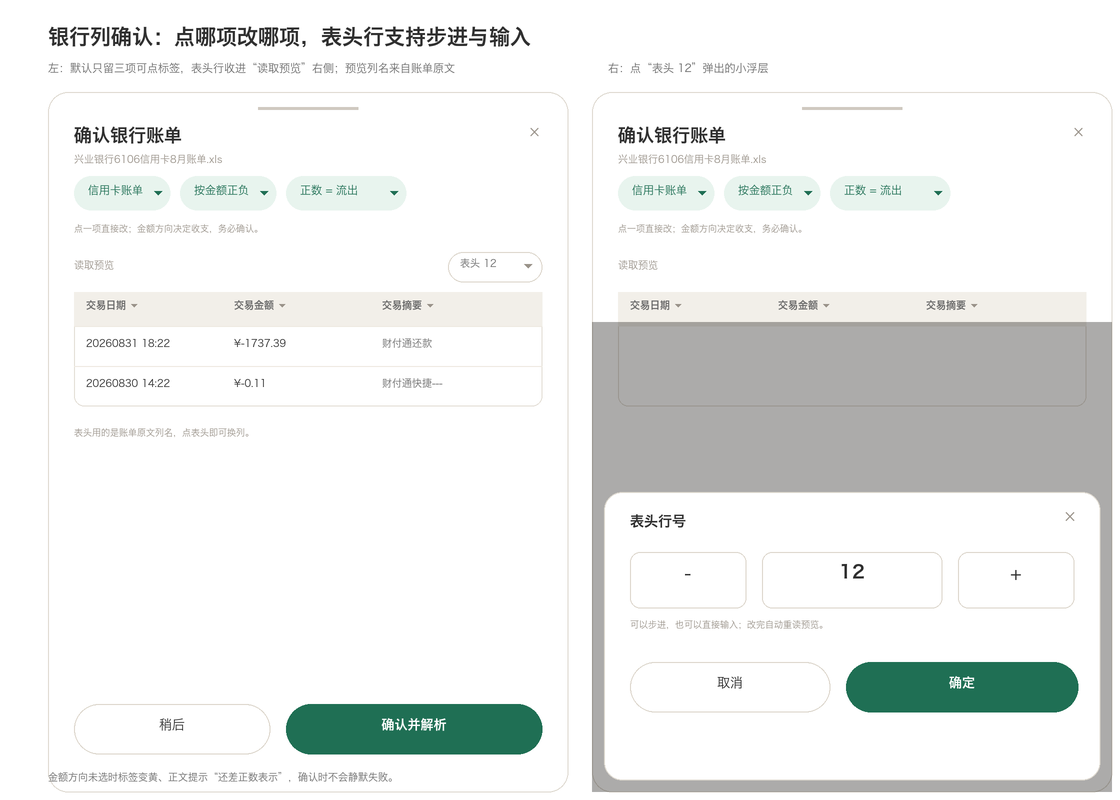
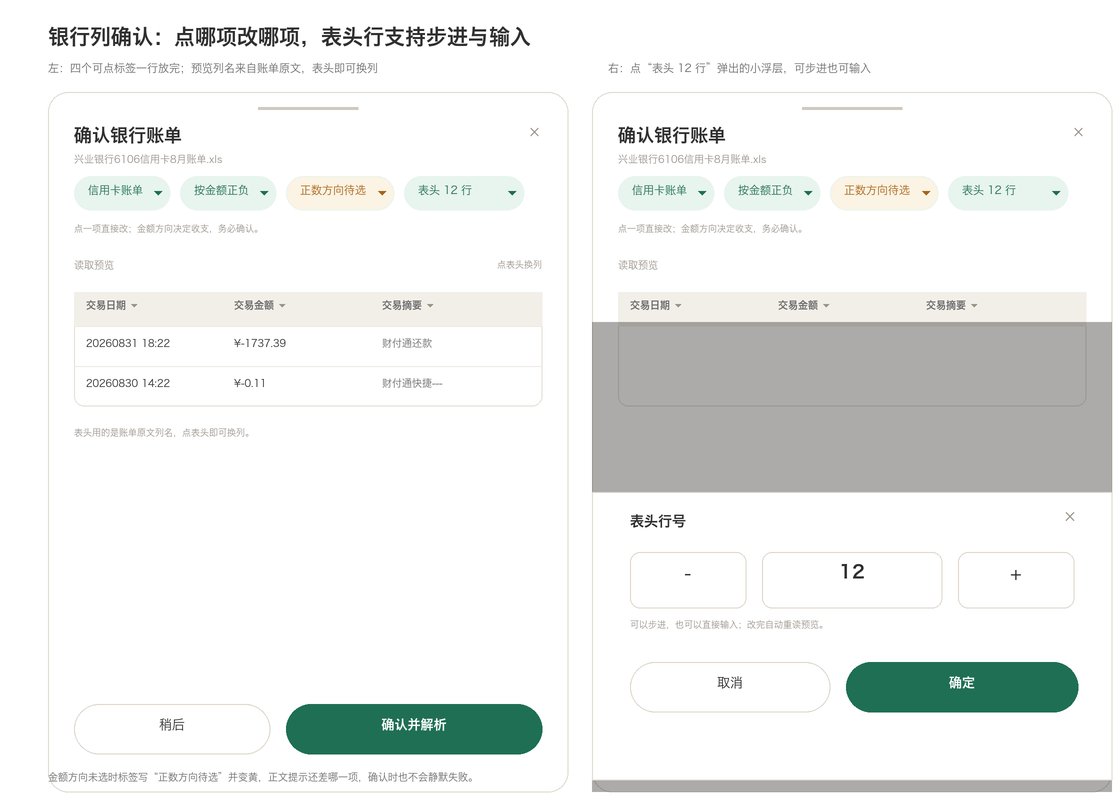
fix(import): 四个标签一行放完，缺项标签写清缺什么
- “待选择”改为“正数方向待选 / 借贷含义待选”，不再只说待选择
- 表头标签写“表头 12 行”，并回到标签行内，不再单独漂在右侧
- 浮层改为页面级 fixed，修掉右侧 +、× 溢出弹层的问题

diff --git a/miniprogram/packages/finance/pages/import-workbench/bank-mapping.js b/miniprogram/packages/finance/pages/import-workbench/bank-mapping.js
@@ -61,12 +61,13 @@ function view(clientId, name, preview, draft) {
   const directionMissing = current.amountMode === 'signed' ? !current.positiveDirection
     : current.amountMode === 'direction' ? (!current.debitDirection && samplesHaveDebit) : false
   const directionLabel = current.amountMode === 'signed' ? '正数表示' : '借贷含义'
+  // 未选时把“缺什么”写在标签上，别只写“待选择”。
   const directionValue = current.amountMode === 'signed'
-    ? (current.positiveDirection === 'income' ? '正数 = 流入' : current.positiveDirection === 'expense' ? '正数 = 流出' : '待选择')
-    : (current.debitDirection === 'income' ? '借方 = 流入' : current.debitDirection === 'expense' ? '借方 = 流出' : '待选择')
+    ? (current.positiveDirection === 'income' ? '正数 = 流入' : current.positiveDirection === 'expense' ? '正数 = 流出' : '正数方向待选')
+    : (current.debitDirection === 'income' ? '借方 = 流入' : current.debitDirection === 'expense' ? '借方 = 流出' : '借贷含义待选')
   const tokens = [
     { key: 'statementKind', label: '账单类型', value: (STATEMENTS.find(item => item.value === (current.statementKind || 'standard')) || STATEMENTS[0]).label, warning: false },
-    { key: 'headerRow', label: '表头', value: '第 ' + preview.headerRow + ' 行', warning: false },
+    { key: 'headerRow', label: '表头', value: '表头 ' + preview.headerRow + ' 行', warning: false },
     { key: 'amountMode', label: '金额格式', value: (MODES.find(item => item.value === current.amountMode) || MODES[0]).label, warning: false },
     { key: 'direction', label: directionLabel, value: directionValue, warning: directionMissing }
   ]
